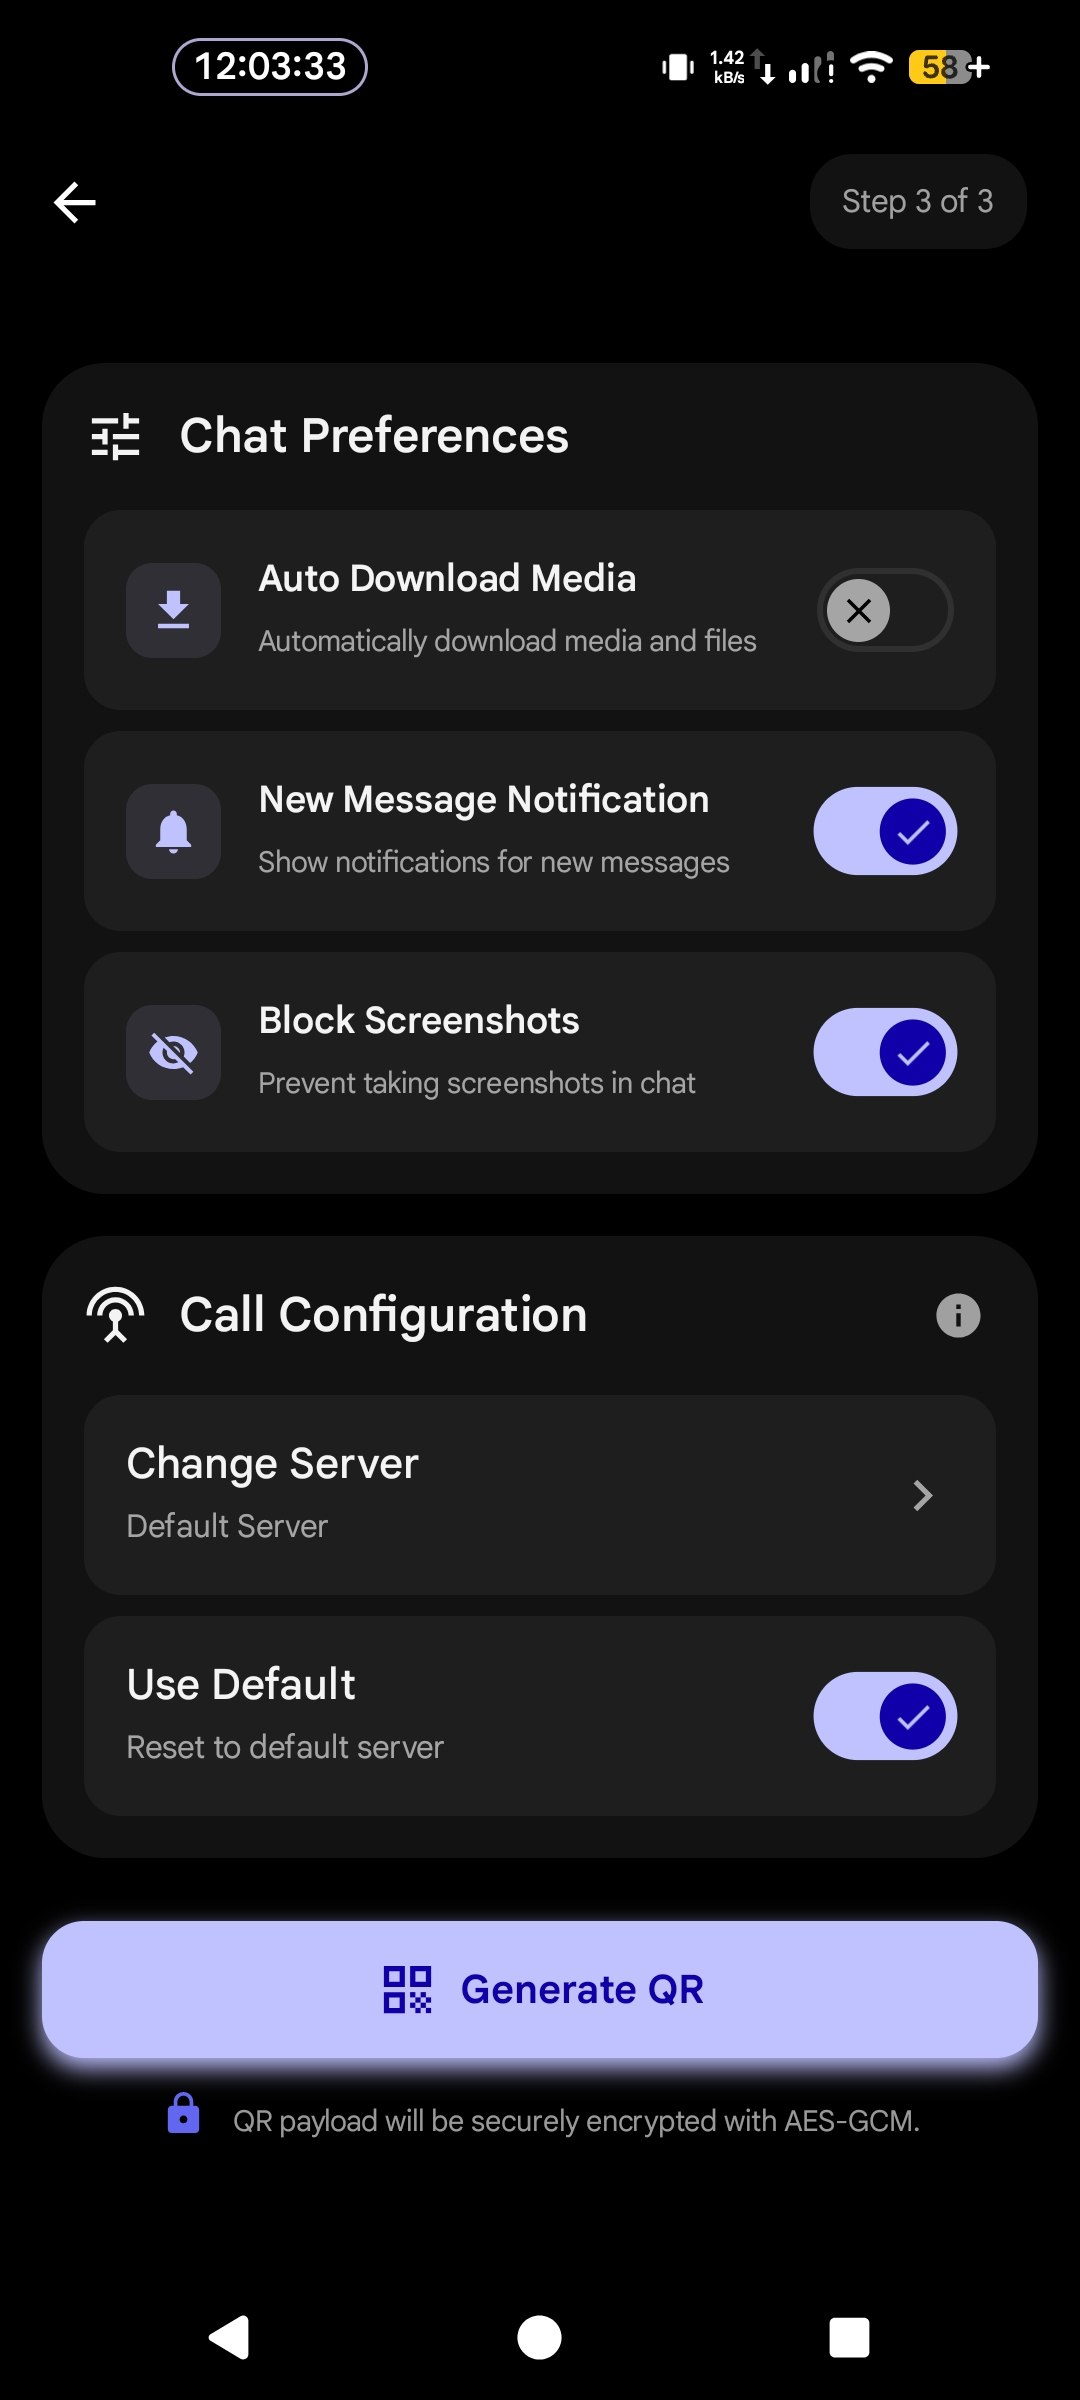
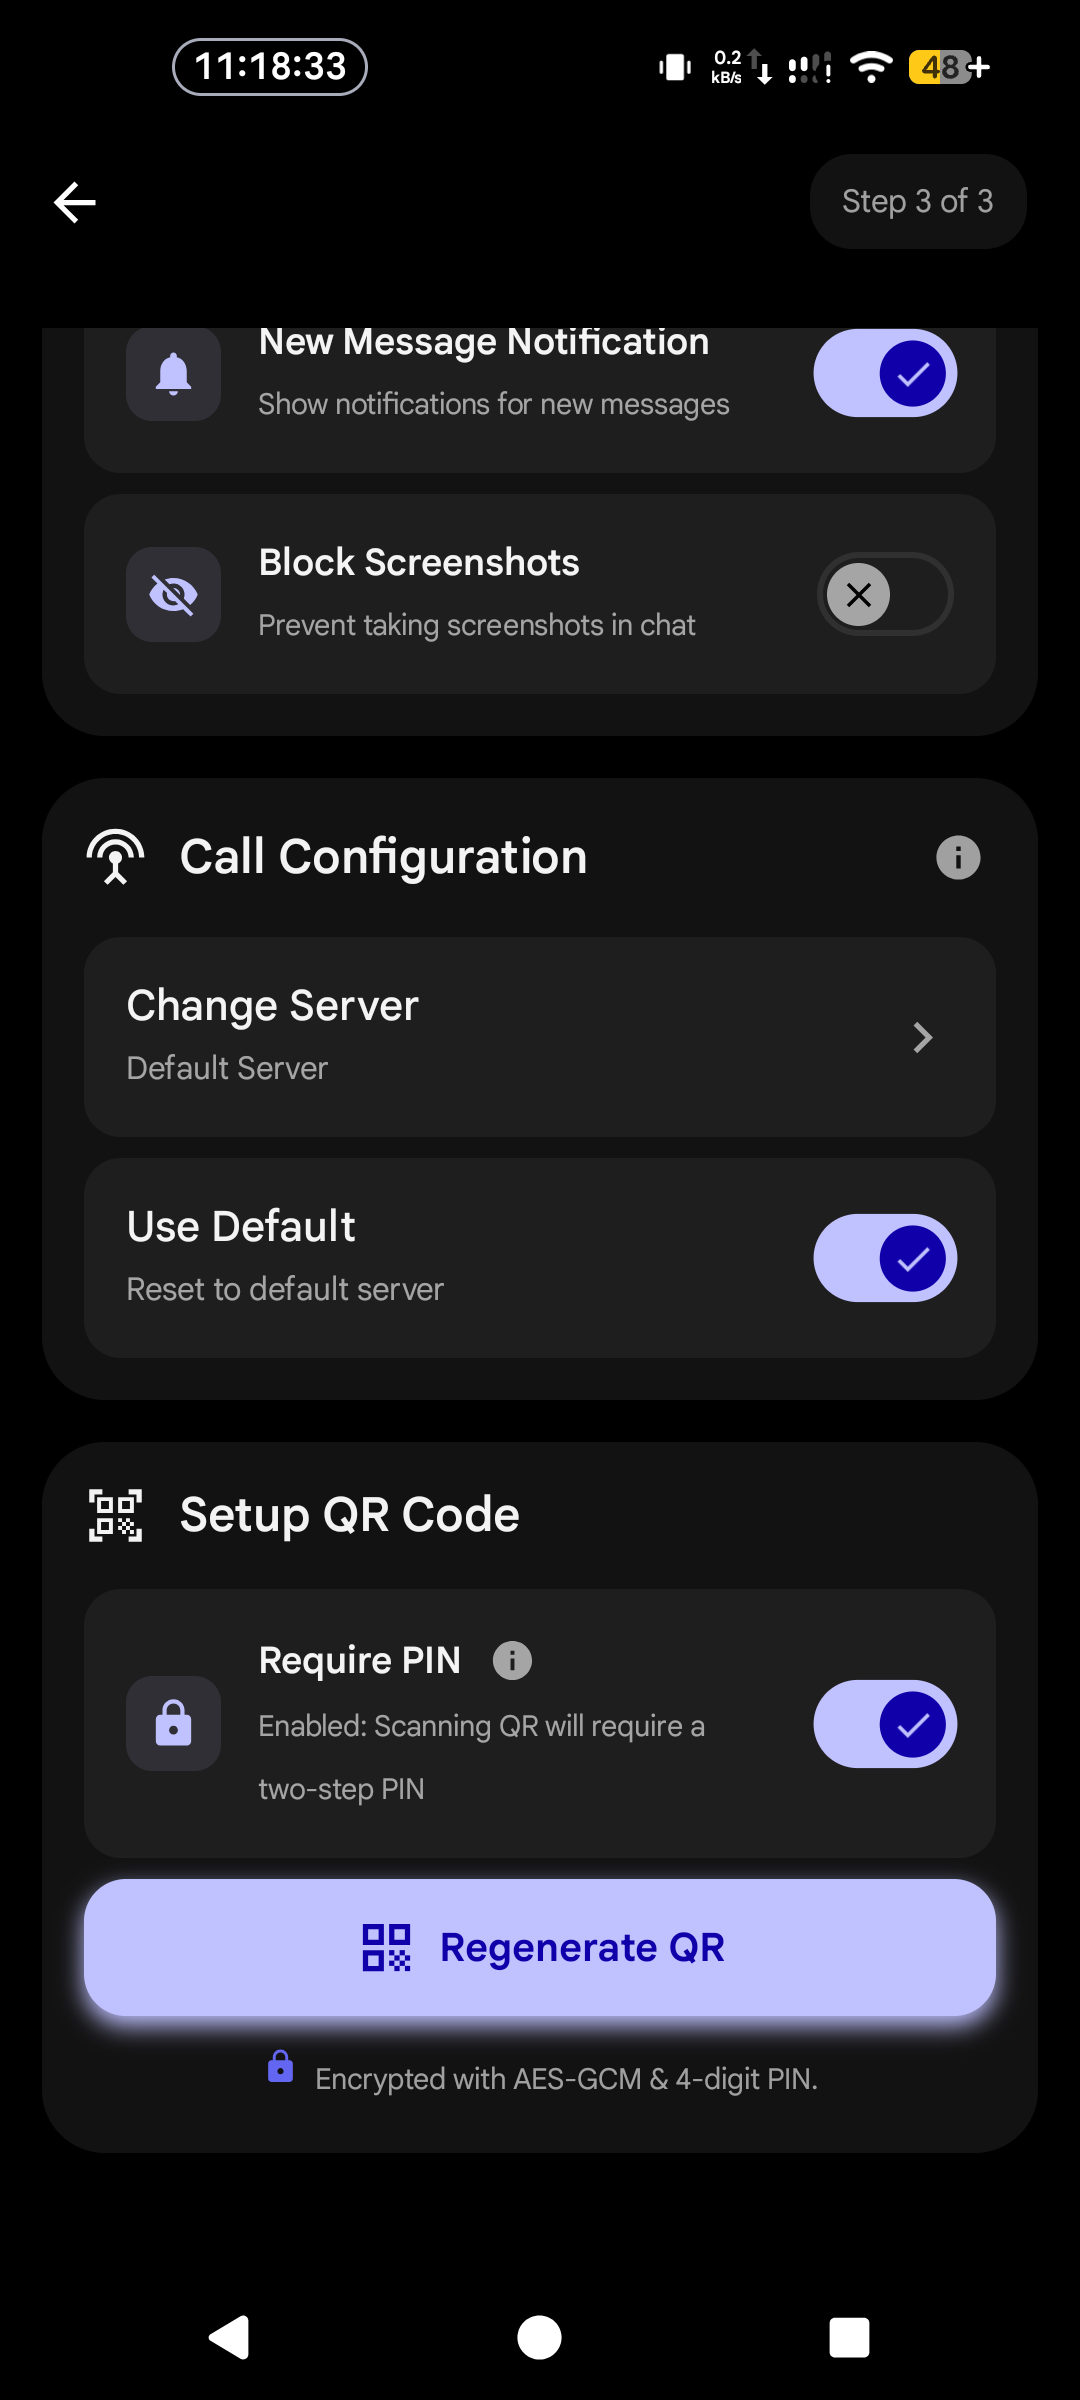
docs: correct license and synced docs
- `terms.txt`: Corrected the open source section to properly reflect the project's Apache License 2.0, fixing the incorrect MIT license reference.
- `terms.txt`: Added a critical security warning regarding group chat exposure, explicitly advising users to only use the bot in a private 1-on-1 chat.
- `Features.md`: Accurately documented the "Interactive Stealth Previews" (Dialer, Tile Setup, Tile Sequence, and Fake Crash bypass).
- `Changelogs.md`: Logged the "Interactive Stealth Previews" and added a dedicated "Documentation" section tracking the recent terms and instructions updates.
- `Instructions.md`: Added explicit clarification on the Two-Step PIN QR encryption mechanism and a critical warning regarding the "Direct Mode" vulnerability.
- `Instructions.md`: Added direct folder redirection links beneath all setup and camouflage screenshot blocks for easier navigation.

diff --git a/docs/Instructions.md b/docs/Instructions.md
@@ -79,7 +79,11 @@ Person A uses the Superior Setup App to safely pack these credentials into an en
 1. Download and open the **Setup App** on your device.
 2. Tap the **Admin Mode** toggle located at the top right (below the step indicator).
 3. Proceed to **Step 2** and enter the Bot Token and User ID you got from Telegram.
-4. Save the generated encrypted QR code or scan it directly on Person B's phone.
+4. **Enable PIN Protection (Recommended)**: If you keep the PIN enabled, the QR code is securely encrypted using the app's default public key combined with a random 4-digit PIN. You must share this 4-digit PIN with Person B so they can import the QR code.
+5. Save the generated encrypted QR code or scan it directly on Person B's phone.
+
+> [!WARNING]
+> **Direct Mode Vulnerability**: If you disable "Require PIN" to generate a Direct Mode QR (`DIR_QR`), the app falls back to using a hardcoded default key. Because this project is open-source, anyone who steals your un-PINned QR code can use the public source code to easily decrypt it and gain full control over your Telegram bot. Always use the PIN! See the [Threat Model in Notes.md](Notes.md#threat-model) for details.
 
 <br>
 <p align="center">
@@ -87,7 +91,10 @@ Person A uses the Superior Setup App to safely pack these credentials into an en
   &nbsp;
   <img src="images/setupapp/admin_mode/adminmode_step2.jpg" width="30%" alt="Admin Mode Step 2">
   &nbsp;
-  <img src="images/setupapp/admin_mode/adminmode_generateqr.jpg" width="30%" alt="Generated QR Code">
+  <img src="images\setupapp\admin_mode\adminmode_step3.jpg" width="30%" alt="Generated QR Code">
+</p>
+<p align="center">
+  <b>📂 <a href="images/setupapp/admin_mode/">View Admin Mode Screenshots Directory</a></b>
 </p>
 
 ---
@@ -115,6 +122,9 @@ These versions hide themselves entirely and require the Setup App to install and
   &nbsp;
   <img src="images/setupapp/client_mode/clientmode_step3.jpg" width="30%" alt="Client Mode Step 3">
 </p>
+<p align="center">
+  <b>📂 <a href="images/setupapp/client_mode/">View Client Mode Screenshots Directory</a></b>
+</p>
 
 ### Option B: Weather Flavor (App Camouflage)
 This version perfectly mimics a functional weather application and does not require the Setup App.
@@ -132,6 +142,9 @@ This version perfectly mimics a functional weather application and does not requ
   <img src="flavors/images/flavor_weather/2.jpg" width="30%" alt="7-Day Forecast">
   &nbsp;
   <img src="flavors/images/flavor_weather/3.jpg" width="30%" alt="Search Interception">
+</p>
+<p align="center">
+  <b>📂 <a href="flavors/images/flavor_weather/">View Weather Flavor Screenshots Directory</a></b>
 </p>
 
 ### Option C: Original Flavor (Non-Camouflage)

diff --git a/docs/Features.md b/docs/Features.md
@@ -154,6 +154,7 @@
 > For complete technical details on how the disguises, entry points, and fake notifications are implemented for each variant, please refer to the specific flavor documentation:
 > - **[Captive Portal Details](flavors/CaptivePortal.md)**
 > - **[Weather Details](flavors/FlavorWeather.md)**
+> - **[Play Support Details](flavors\PlaySupport.md)**
 ---
 
 <h2 id="ui">✨ 7. Modern User Interface</h2>
@@ -162,6 +163,11 @@
 - 🎨 **Dynamic Theme Engine**: Built-in theme selector in App Settings featuring 4 themes (Lavender, Sage, Amber, Rose). All UI components seamlessly synchronize with the active theme instantly without requiring an app restart.
 - 🧘 **Interactive Zen Mode**: A "Zen Mode" top bar state that replaces the standard Header & Icons with an animated character (Sleeping Miku). It triggers automatically after 5 seconds of inactivity or manually via tapping the header, providing a cleaner resting interface.
 - 🌈 **Color-Coded Settings Architecture**: Fully restyled Settings Screen with categorized color hierarchies (Security in Primary, Flavor Specific in Secondary, Developer in Warning, Danger Zone in ErrorRed).
+- 📺 **Interactive Stealth Previews**: Built-in animated visual tutorials in App Settings that teach the user exactly how to configure and execute the secret entry sequences. Includes high-fidelity animated previews for:
+  - 📞 **Dialer Access**: Visual demonstration of typing the secret code in the phone dialer.
+  - 🎛 **Tile Setup**: Visual demonstration of how to drag and drop the hidden tile into the active quick settings panel.
+  - 🎛 **Tile Sequence**: Visual demonstration of the `ON ➔ OFF ➔ ON and HOLD` Quick Settings Tile unlock sequence.
+  - 🔐 **Fake Crash Decoy**: Visual demonstration of the secret 2-second hold on the title to safely bypass the fake crash screen.
 - 💬 **Reply Jumping**: Tapping a replied message now instantly snaps to the target message and applies a sleek 2-second visual highlight effect.
 - 📌 **Message Pin Indicators**: Professional pin icons directly on the message status row for pinned text, media, and documents.
 - ⏳ **Queued Media Indicators**: Professional "Waiting..." indeterminate spinners for queued media transfers.

diff --git a/docs/Changelogs.md b/docs/Changelogs.md
@@ -52,6 +52,7 @@
 - 📌 **Message Pin Indicators**: Added a professional pin icon directly to the message status row for pinned text, media, and documents.
 - ⏳ **Queued Media Indicators**: Replaced static cancel buttons with a professional "Waiting..." indeterminate spinner for queued media transfers.
 - 🌈 **Color-Coded Settings Architecture**: Fully restyled the Settings Screen with categorized color hierarchies (Security in Primary, Flavor Specific in Secondary, Developer in Warning, Danger Zone in ErrorRed) for a much cleaner UX.
+- 📺 **Interactive Stealth Previews**: Added built-in animated visual tutorials in App Settings that demonstrate exactly how to configure and execute the secret entry sequences (features high-fidelity animations for the Dialer code, Tile setup, Tile sequence, and Fake Crash bypass).
 - 🎨 **Centralized UX Catalog**: 100% of popup dialogs across the app were rewritten using a centralized, color-coded, animated composable architecture for maximum consistency.
 
 ---
